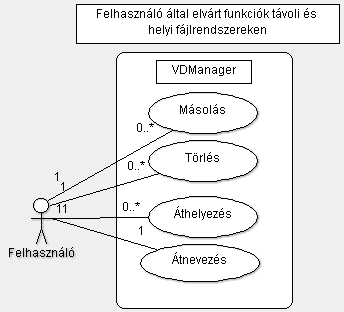
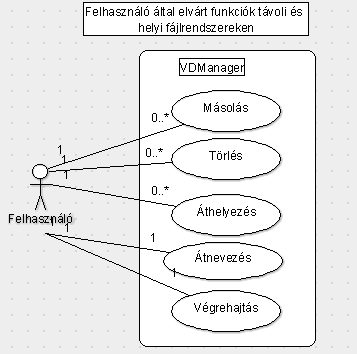
use case update

diff --git a/docs/SRS_dokumentum/VDManager - SRS.html b/docs/SRS_dokumentum/VDManager - SRS.html
@@ -124,7 +124,12 @@
 	<td>Funkciók bővítése, további kidolgozások, GUI tervek</td>
 	<td>Fibinger Ádám</td>
 </tr>
-
+<tr>
+	<td>2010.11.20.</td>
+	<td>0.3.6</td>
+	<td>Végrehajtás szöveges és Use-Case kidolgozása</td>
+	<td>Komjáthy Gábor</td>
+</tr>
 </table>
 
 <P><B>Tartalomjegyzék</B></P>
@@ -160,6 +165,9 @@
 			</li>
 			<li>
 				<a href="#atnevezes">Átnevezés</a>
+			</li>
+			<li>
+				<a href="#vegrehajtas">Végrehajtás</a>
 			</li>
 			<li>
 				<a href="#Queue">Queue, várakozási sor</a>
@@ -512,7 +520,7 @@ a soros végrehajtás lehetőségét. Ezt a Queue (Várakozási sor) tárolóval
 	</ol>
 	</li>
 	<li><p><a name="atnevezes"></a>
-	<b class="main_functions">Átnevezés</b><p>
+	<b class="main_functions">Átnevezés</b></p>
 
 	<div class="img">
 		<img src="use_case_rename.png" alt="Átnevezés">
@@ -548,6 +556,55 @@ a soros végrehajtás lehetőségét. Ezt a Queue (Várakozási sor) tárolóval
 		<li>Átnevezés megkezdése, amennyiben a fenti ellenőrzések rendben lezajlanak, az esetleges problémák lekezelésre kerültek</li>
 	</ol>
 	</li>
+	
+	<li><p><a name="vegrehajtas"></a>
+	<b class="main_functions">Végrehajtás</b></p>
+	<div class="img">
+		<img src="use_case_execute.png" alt="Végrehajtás">
+		<p class="img_bottom">Végrehajtás</p>
+	</div>
+	<p>A felhasználó egy fájlt futtat.</p>
+	<p><b>Prekondíciók:</b> A szoftver üzemkész állapotban van, és a fájl futtattásához szükséges szoftver is telepítve van.</p>
+	<p><b>Poszt-kondíciók:</b> A megadott fájl futtattása megtörténik.</p>
+	<p><b>Szokásos működés (Main Flow):</b> A felhasználó kijelöli a futtattni kívánt fájlt. 
+	A Végrehajtás parancs kiadása után:</p>
+	<ol>
+		<li>Forrás futtatthatóságának ellenőrzése</li>
+		<li>Forrás helyének meghatározása</li>
+		<li>Felhasználó jogosultságának ellenőrzése</li>
+		<li>Futtattás megkezdése, amennyiben a fenti ellenőrzések rendben lezajlanak</li>
+	</ol>
+
+	<p><b>Alternatív esetek:</b>
+	<ol>
+		<li>Forrás futtatthatóságának ellenőrzése:
+			<ul>
+				<li><b>Forrás nem futtattható:</b> Felhasználó tájékoztatása, végrehajtás megszakítása</li>
+			</ul>
+		</li>
+		<li>Forrás helyének meghatározása:
+			<ul>
+				<li><b>A forrás nem helyi fájl: </b> Felhasználó figyelmeztetése: Fájl letöltése, megszakítás felajánlása
+				<ul>
+				<li> Felhasználó letöltést kért: Fájl letöltése a helyi rendszerre, majd fájl futtattása.</li>
+				<li> Felhasználó megszakítást kért: a művelet megszakítása, visszatérés üzemkész állapotba.</li>
+				</ul>
+				</li>
+				
+			</ul>
+		</li>
+		<li>Felhasználó jogosultságának ellenőrzése:
+		<ul>
+			<li><b>Jogosultság nem megfelelő:</b> Felhasználó figyelmeztetése, végrehajtás megszakítása.
+			</li>
+		</ul>
+		</li>
+		<li>Végrehajtás megkezdése, amennyiben a fenti ellenőrzések rendben lezajlanak.</li>
+	</ol>
+	</div>
+	</li>
+	
+	
 	<li>
 	<p><a name="Queue"></a>
 	<b class="main_functions">Queue</b></p>
